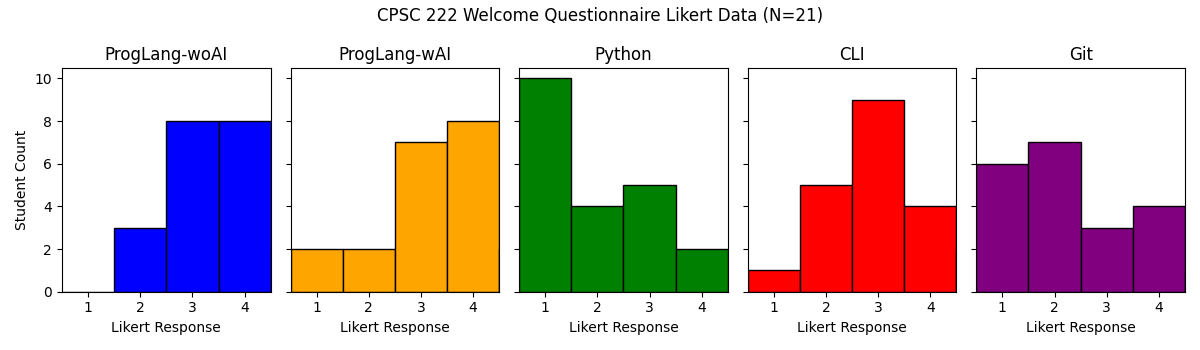
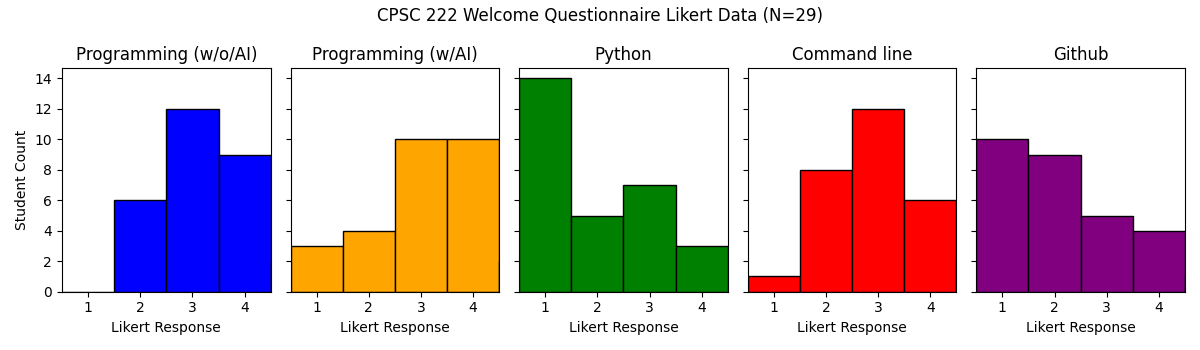
updated csv

diff --git a/WelcomeQuestionnaireDemo/welcome_questionnaire_demo.py b/WelcomeQuestionnaireDemo/welcome_questionnaire_demo.py
@@ -15,13 +15,12 @@ dataframe = dataframe.sample(frac=1)
 dataframe = dataframe.reset_index(drop=True)
 # fill with middle value
 dataframe.fillna(3, inplace=True) 
-print(dataframe)
 dataframe.to_csv("welcome_responses_S25_cleaned.csv")
 
 # get a sense of the central tendency for the Likert scale questions
 print("Spring 2025")
 for col_name in dataframe.columns:
-    print(col_name, ":", dataframe[col_name].median())
+    print(col_name, "experience median:", dataframe[col_name].median())
 
 # create a Matplotlib figure with 5 axes all in a row
 fig, ax = plt.subplots(1, len(dataframe.columns), sharex=True, sharey=True) # one row, four columns
@@ -45,7 +44,7 @@ plt.tight_layout()
 plt.savefig("welcome_likert_hist.png")
 
 # test if there is there significantly different command line experience than github experience in the class?
-print("Command line vs Github experience t-test:", stats.ttest_rel(dataframe["CLI"], dataframe["Git"]))
+print("Command line vs Github experience t-test:", stats.ttest_rel(dataframe["Command line"], dataframe["Github"]))
 
 # test if there is a significant difference between skill levels this semester compared to last semester
 print()
@@ -56,9 +55,9 @@ print("Python experience median:", dataframe_last_sem["Answer 2"].median()) # py
 print("Command line experience median:", dataframe_last_sem["Answer 3"].median()) # command line experience
 print("Github experience median:", dataframe_last_sem["Answer 4"].median()) # github experience
 
-print("Programming experience t-test:", stats.ttest_ind(dataframe["ProgLang-woAI"], dataframe_last_sem["Answer 1"]))
+print("Programming experience t-test:", stats.ttest_ind(dataframe["Programming (w/o/AI)"], dataframe_last_sem["Answer 1"]))
 print("Python experience t-test:", stats.ttest_ind(dataframe["Python"], dataframe_last_sem["Answer 2"]))
-print("Command line experience t-test:", stats.ttest_ind(dataframe["CLI"], dataframe_last_sem["Answer 3"]))
-print("Github experience t-test:", stats.ttest_ind(dataframe["Git"], dataframe_last_sem["Answer 4"]))
+print("Command line experience t-test:", stats.ttest_ind(dataframe["Command line"], dataframe_last_sem["Answer 3"]))
+print("Github experience t-test:", stats.ttest_ind(dataframe["Github"], dataframe_last_sem["Answer 4"]))
 
 
